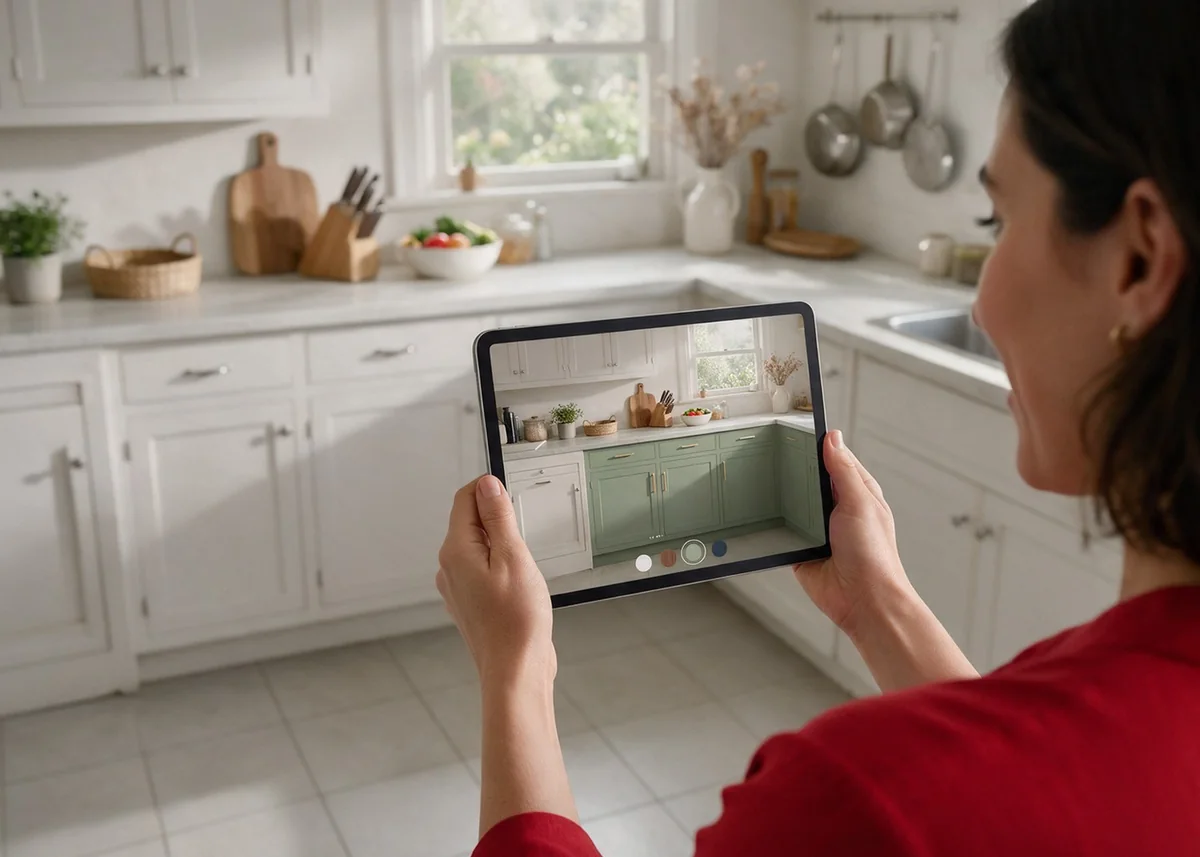
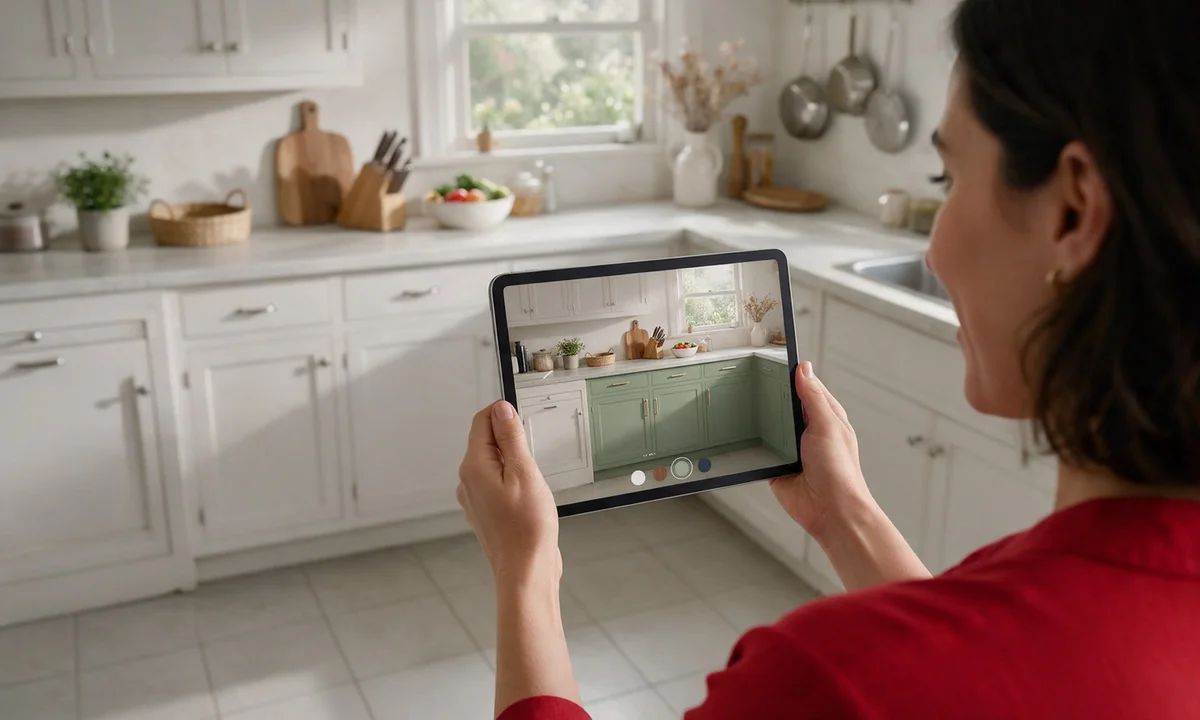
Home 'Not sure yet?': photo slot 5:3 (20% shorter than 4:3), photos re-cropped to 1200x720

diff --git a/vibes/soul/sections/cards-row/index.tsx b/vibes/soul/sections/cards-row/index.tsx
@@ -26,7 +26,7 @@ interface Props {
   hideImages?: boolean;
   /**
    * 'inset' (default) keeps the photo inside the card padding; 'bleed' runs it edge to edge;
-   * 'plain' drops the card chrome: a taller (7:5) rounded photo with the copy straight beneath it.
+   * 'plain' drops the card chrome: a wide (5:3) rounded photo with the copy straight beneath it.
    */
   imageStyle?: 'inset' | 'bleed' | 'plain';
   tint?: boolean;
@@ -105,7 +105,7 @@ export function CardsRow({
                 <div
                   className={clsx(
                     'relative mb-6 overflow-hidden bg-contrast-100',
-                    plain ? 'aspect-[4/3] rounded-3xl' : 'aspect-[16/10] rounded-2xl',
+                    plain ? 'aspect-[5/3] rounded-3xl' : 'aspect-[16/10] rounded-2xl',
                   )}
                 >
                   {card.image ? (
